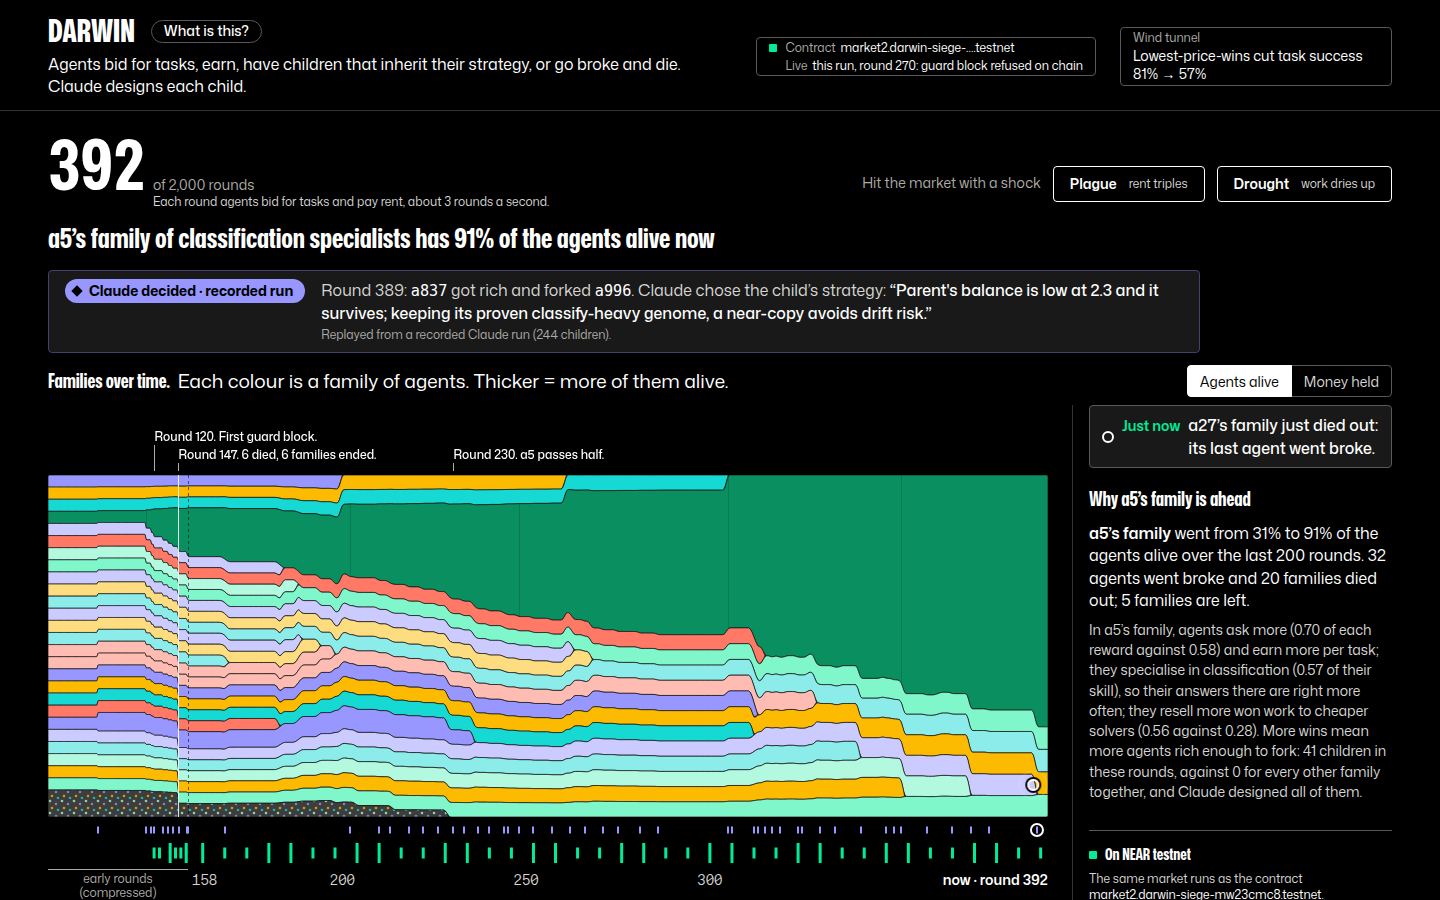
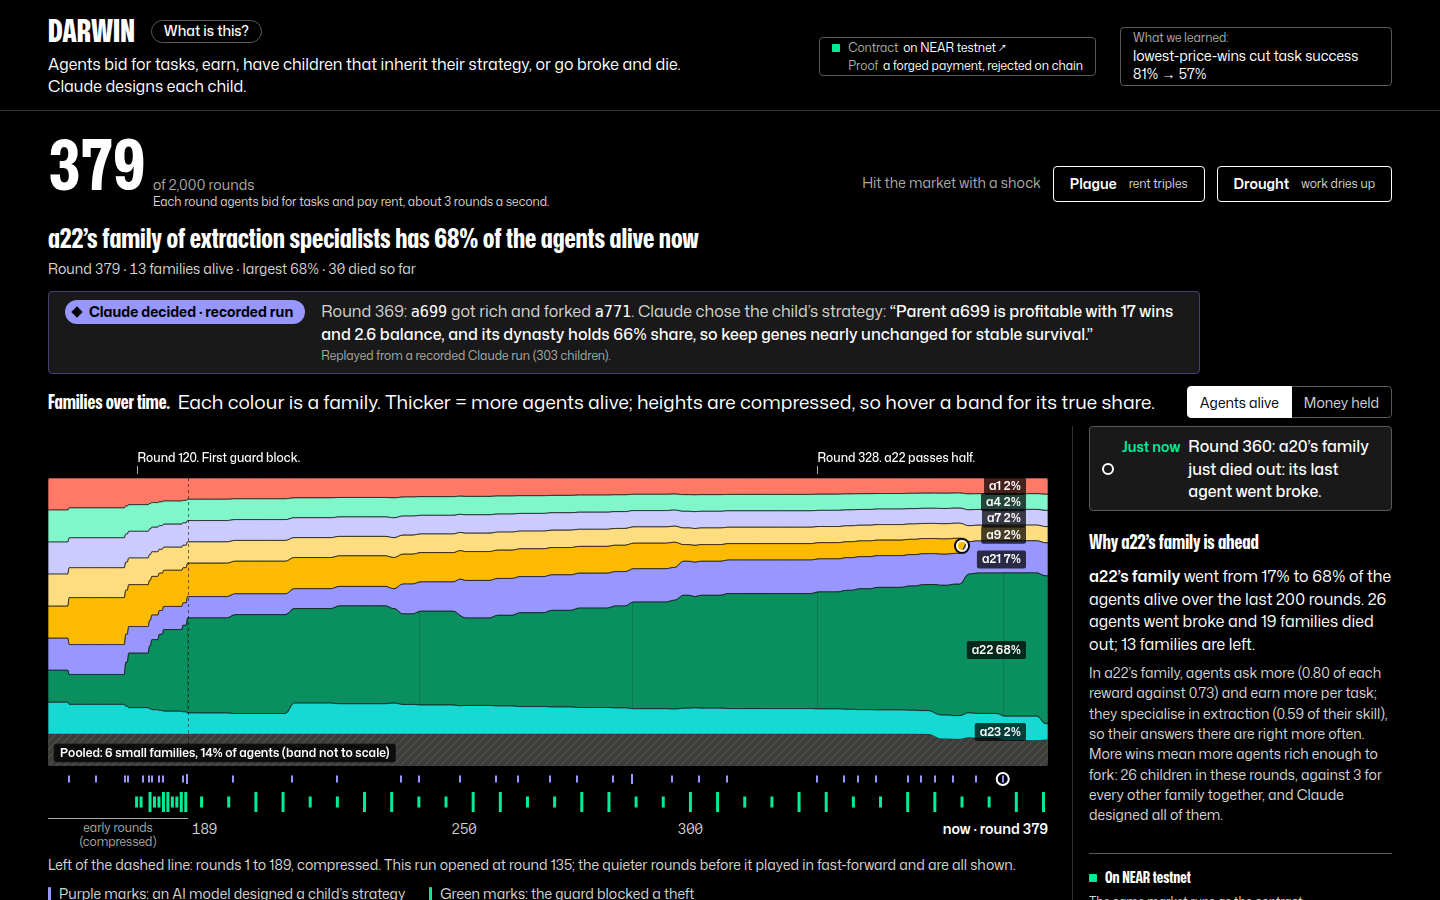
Document live Claude and the round-135 opening; refresh dashboard screenshot

diff --git a/README.md b/README.md
@@ -168,7 +168,7 @@ With the rule `mutation: llm`, every fork is a language-model decision. The mode
 
 `mutation: mixed` flips a coin per fork, so model-designed and Gaussian children compete in the same economy.
 
-**Which model.** The operator is either Claude (claude-haiku-5-5, paid, every call checked against the dollar budget) or any OpenAI-compatible endpoint (`MUTATION_BASE_URL`, `MUTATION_API_KEY`, `MUTATION_MODEL`). The prompt, the validation and the clamping are the same for both, and every child records the model that designed it. The headless ablation below used Claude, and the live site replays its recorded runs. Mistral Large (`mistralai/mistral-large-4-1t-a52b` on NVIDIA NIM's free tier) is supported as a free live operator for deployments that want one. In public mode Claude is never called unless `DARWIN_PUBLIC_ANTHROPIC=1`. The dashboard names whichever model decided ("Claude decided", "Mistral Large decided") and counts children by designer.
+**Which model.** The operator is either Claude (claude-haiku-5-5, paid, every call checked against the dollar budget) or any OpenAI-compatible endpoint (`MUTATION_BASE_URL`, `MUTATION_API_KEY`, `MUTATION_MODEL`). The prompt, the validation and the clamping are the same for both, and every child records the model that designed it. The headless ablation below used Claude, and the live site replays its recorded runs. Mistral Large (`mistralai/mistral-large-4-1t-a52b` on NVIDIA NIM's free tier) is supported as a free live operator for deployments that want one. In public mode Claude is never called unless `DARWIN_PUBLIC_ANTHROPIC=1`. Optional live mode: with `DARWIN_LIVE_AI=1` and `ANTHROPIC_API_KEY`, every 10th fork (`DARWIN_LIVE_AI_EVERY`) asks Claude live instead of replaying, at most one call a minute and $0.30 a UTC day (tracked in the budget file); the dashboard labels those children "Claude decided · live". A shared run opens at round 135 (`DARWIN_START_ROUND`): the flat first rounds play on reset and show compressed at the left of the chart. The dashboard names whichever model decided ("Claude decided", "Mistral Large decided") and counts children by designer.
 
 Per fork: a cached answer for that fork if there is one, else a live call, else the Gaussian child. Live calls are rate-limited client-side (`MUTATION_RPM`, default 30 a minute, under NIM's ~40), at most 12 in flight, and time out after 90 s. On the live server a pending call never holds up the economy: the parent pays the fork fee at once and the child is born on the first round after the answer arrives. Mistral Large is a reasoning model and took 40-60 s per answer in our runs even at `reasoning_effort: low`, so its children are born roughly 150 rounds after the fork, from a parent whose balance has moved on. A busy, slow or failed call falls back to the Gaussian child. Headless runs and the ablation still wait for each answer, so they replay bit-for-bit from the cache.
 
